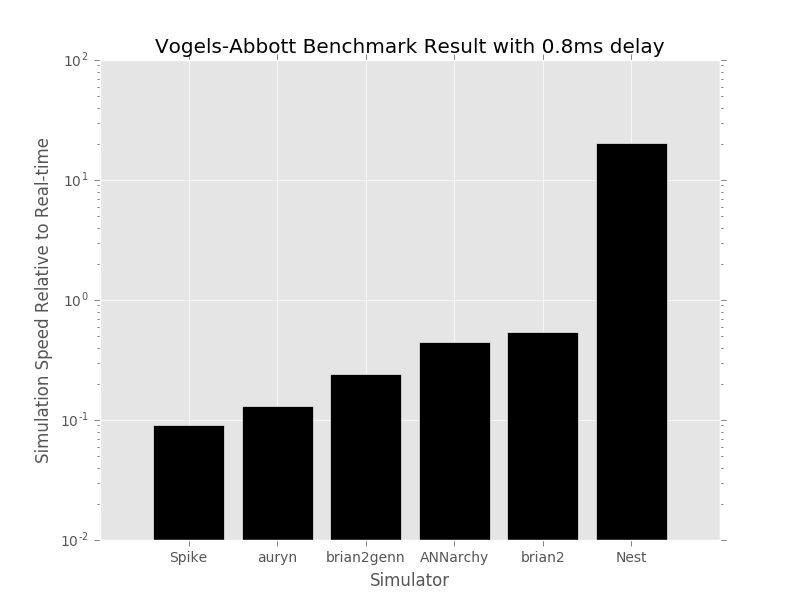
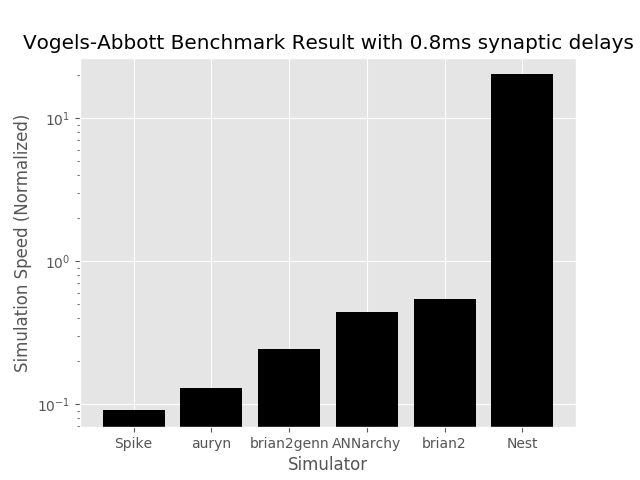
Changes to plot title etc.

diff --git a/Benchmarks/VogelsAbbott/_results/plotting.py b/Benchmarks/VogelsAbbott/_results/plotting.py
@@ -29,28 +29,28 @@ for s in simulators:
 
 # Plotting single timestep results
 fig, ax = plt.subplots()
-ax.set_title("Vogels-Abbott Benchmark Result with 0.1ms delay")
+ax.set_title("Vogels-Abbott Benchmark Result with 0.1ms synaptic delays")
 ax.bar(
         range(len(simulators)),
         single_timestep_delay_results,
         tick_label=simulators,
         align='center', color='k')
 ax.set_xlabel("Simulator")
-ax.set_ylabel("Simulation Speed Relative to Real-time")
+ax.set_ylabel("Simulation Speed (Normalized)")
 ax.set_yscale('log')
 fig.savefig('single_delay_comparison.png')
 #plt.show()
 
 
 fig, ax = plt.subplots()
-ax.set_title("Vogels-Abbott Benchmark Result with 0.8ms delay")
+ax.set_title("Vogels-Abbott Benchmark Result with 0.8ms synaptic delays")
 ax.bar(
         range(len(simulators)),
         eight_timestep_delay_results,
         tick_label=simulators,
         align='center', color='k')
 ax.set_xlabel("Simulator")
-ax.set_ylabel("Simulation Speed Relative to Real-time")
+ax.set_ylabel("Simulation Speed (Normalized)")
 ax.set_yscale('log')
 fig.savefig('eight_delay_comparison.png')
 #plt.show()
